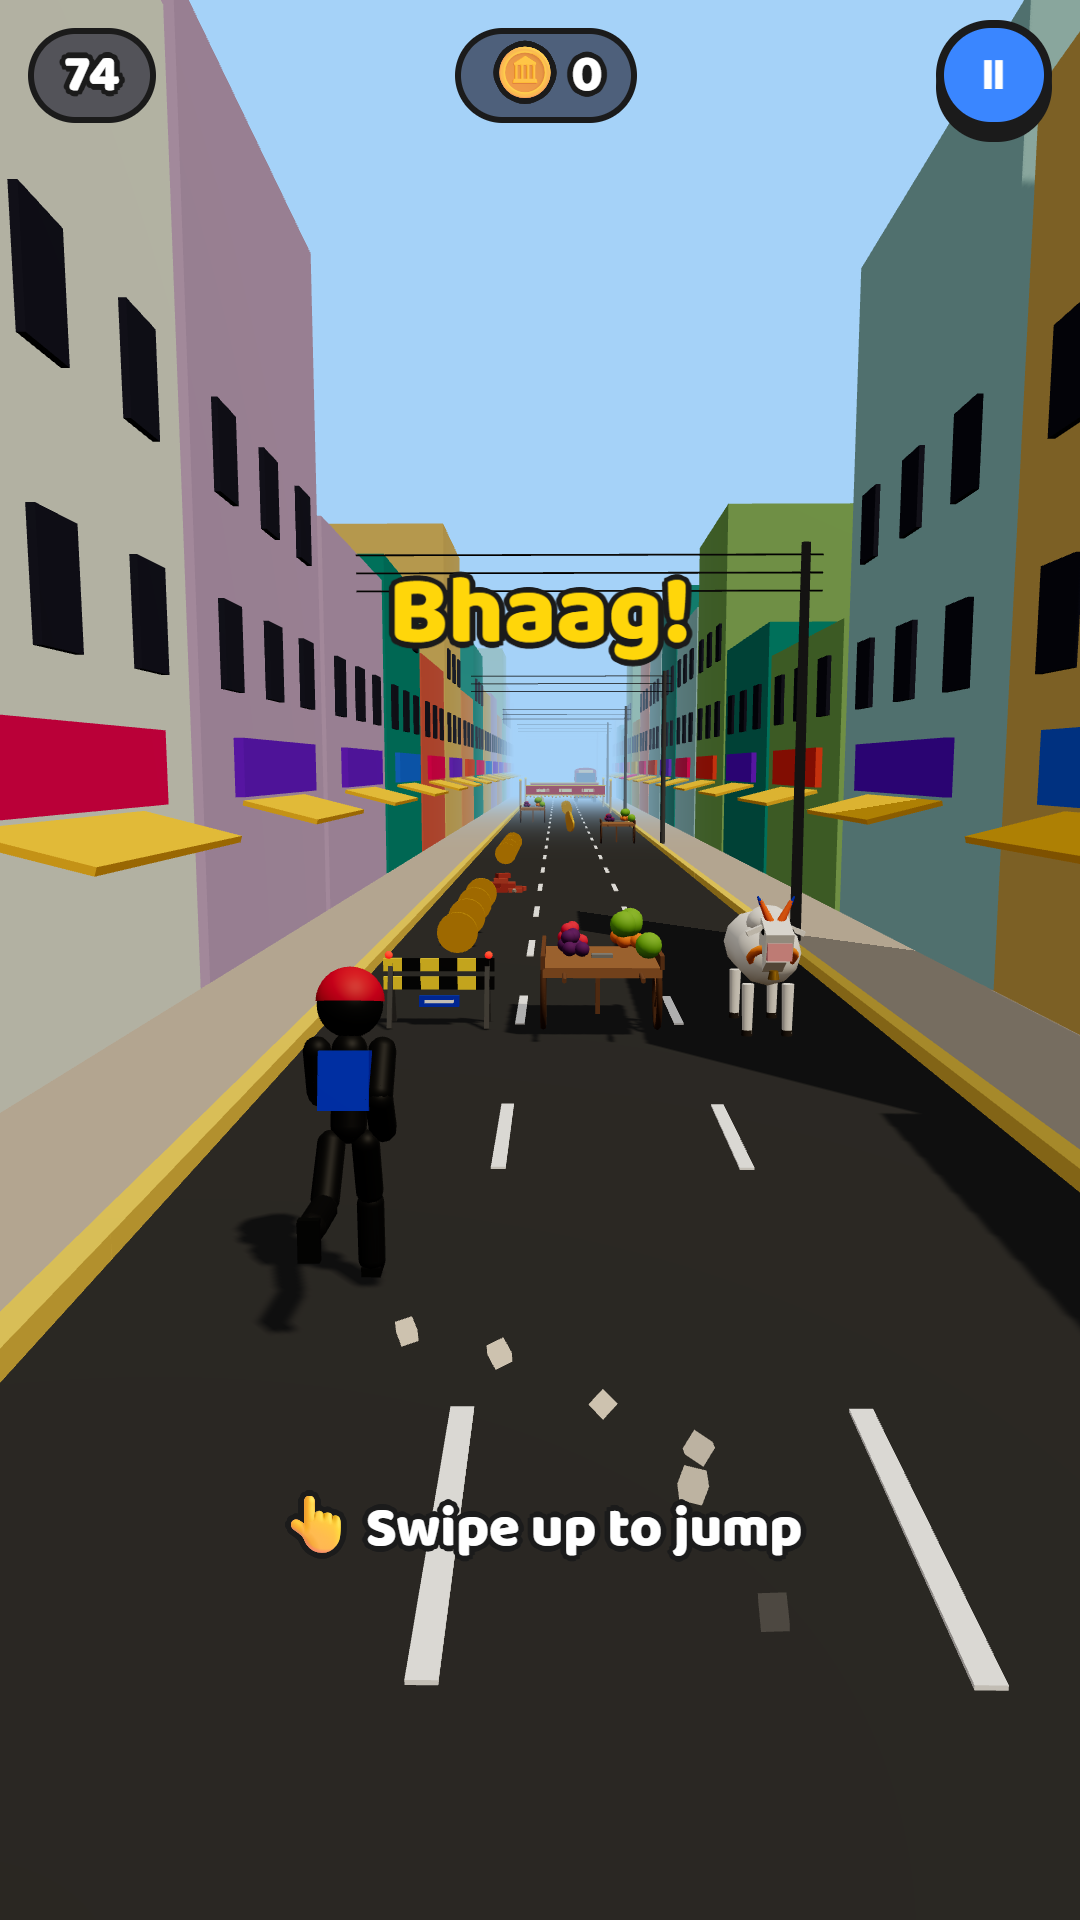
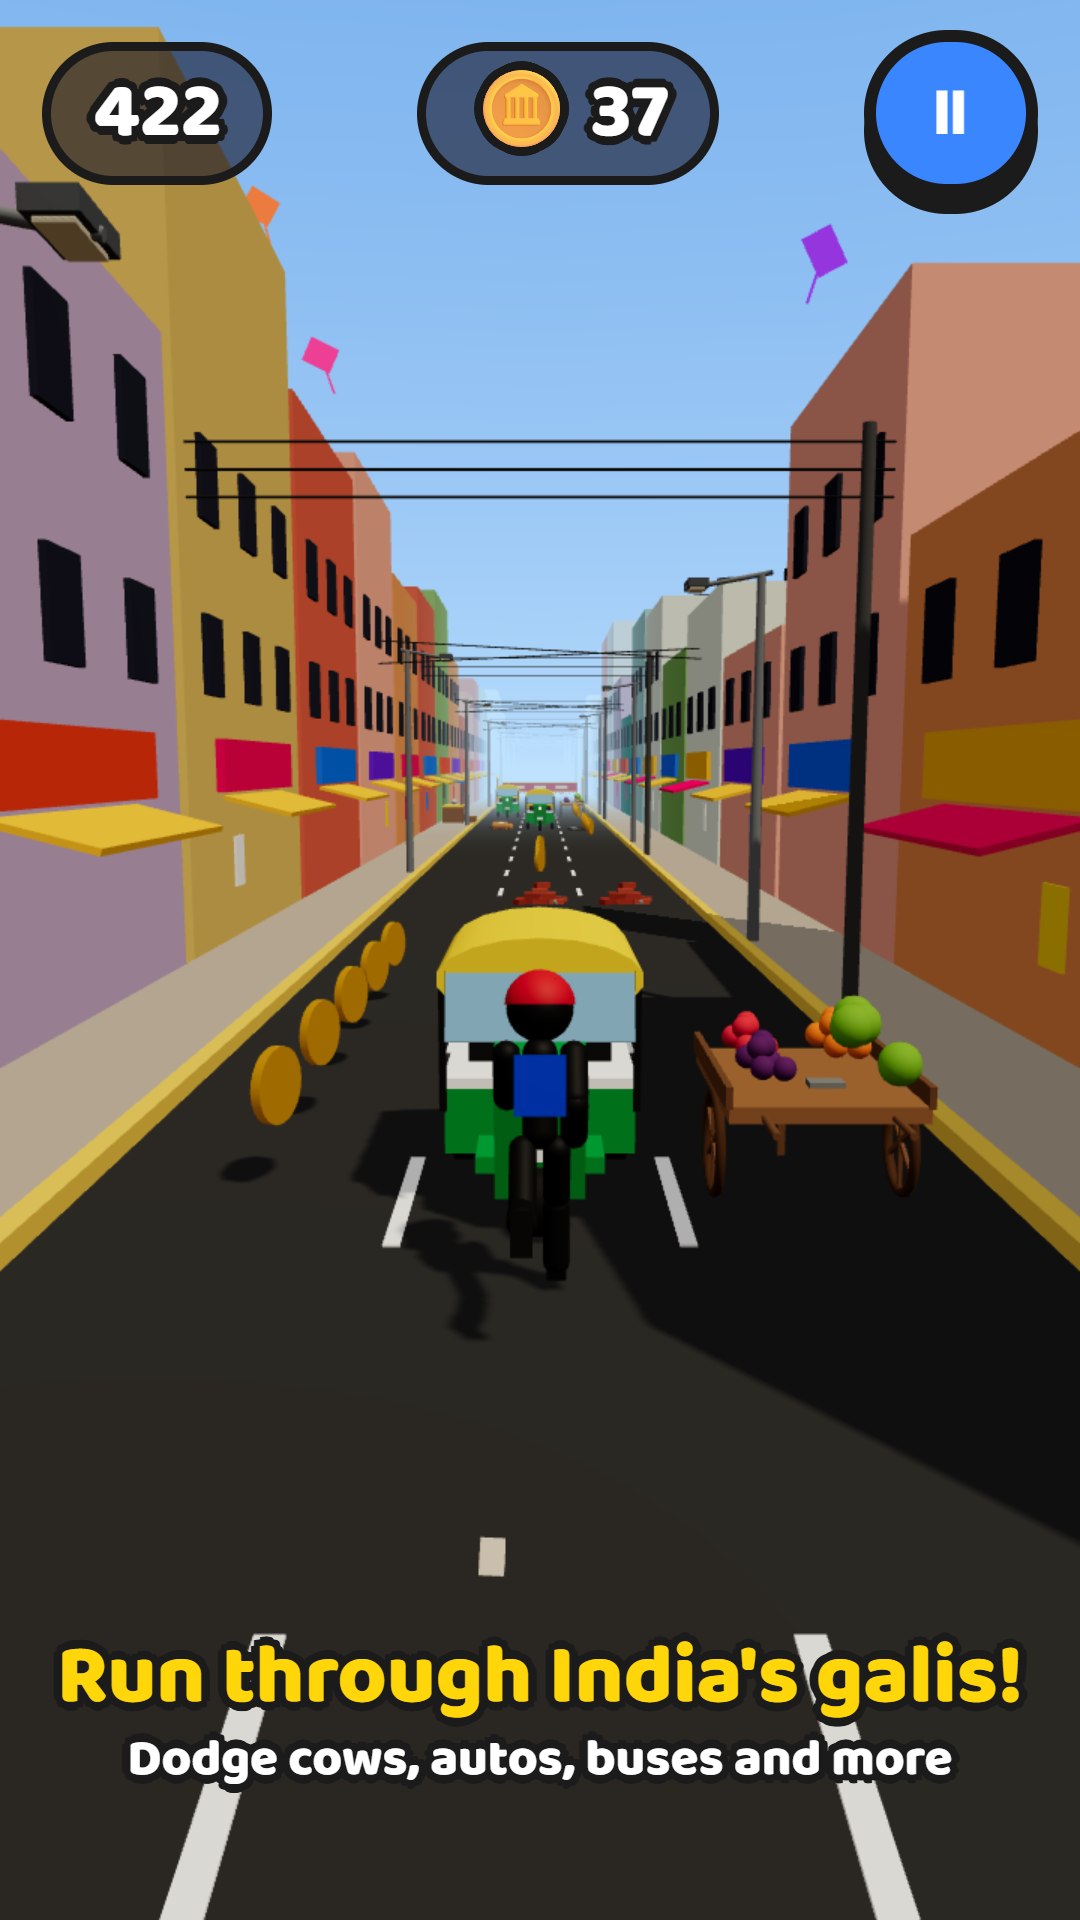
Store: 8 new 1080x1920 screenshots for v1.2 (night, areas, monsoon, cycle, chasers) with captions

diff --git a/store/LISTING.md b/store/LISTING.md
@@ -80,7 +80,7 @@ v1.1
 ## Graphics checklist
 - [x] App icon 512×512 — `icons/icon-512.png`
 - [x] Feature graphic 1024×500 — `store/feature-graphic.png`
-- [x] Phone screenshots 1080×1920 — `store/screenshots/`
+- [x] Phone screenshots 1080×1920 — `store/screenshots/` (8 for v1.2: menu, run, night, railway, mandir, monsoon, cycle, chasers)
 
 ## Release steps (one-time setup)
 1. Install **Android Studio** (it includes the Android SDK and the JDK it needs).
